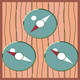
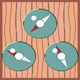
Draw orb specular highlights on top of the needles
Split orb rendering into back (rim, glass, depth glow) and front passes;
the front pass draws the sheen band and white highlight spot after the
needles so the glass reflections sit in front of the needle, as glass
should. Refresh icons, screenshots, and preview GIFs.

diff --git a/src/c/pebble-onepiece-logpose-face.c b/src/c/pebble-onepiece-logpose-face.c
@@ -223,6 +223,12 @@ static void prv_draw_orb(GContext *ctx, GPoint c, int r) {
   graphics_context_set_fill_color(ctx, COLOR_ORB_GLOW);
   graphics_fill_radial(ctx, circle_rect, GOvalScaleModeFitCircle, 2,
                        DEG_TO_TRIGANGLE(95), DEG_TO_TRIGANGLE(265));
+}
+
+// Specular glass details drawn on top of the needles, so the reflections
+// appear in front of what's inside the orb.
+static void prv_draw_orb_glass_front(GContext *ctx, GPoint c, int r) {
+  const GRect circle_rect = GRect(c.x - r, c.y - r, 2 * r, 2 * r);
 
   // Light sheen band in the upper left.
   graphics_context_set_fill_color(ctx, COLOR_ORB_SHEEN);
@@ -333,6 +339,11 @@ static void prv_fg_update_proc(Layer *layer, GContext *ctx) {
         break;
     }
     prv_draw_needle(ctx, s_orb_center[orb], angle);
+  }
+
+  // Glass reflections render in front of the needles.
+  for (int orb = 0; orb < ORB_COUNT; orb++) {
+    prv_draw_orb_glass_front(ctx, s_orb_center[orb], s_orb_radius);
   }
 }
 
